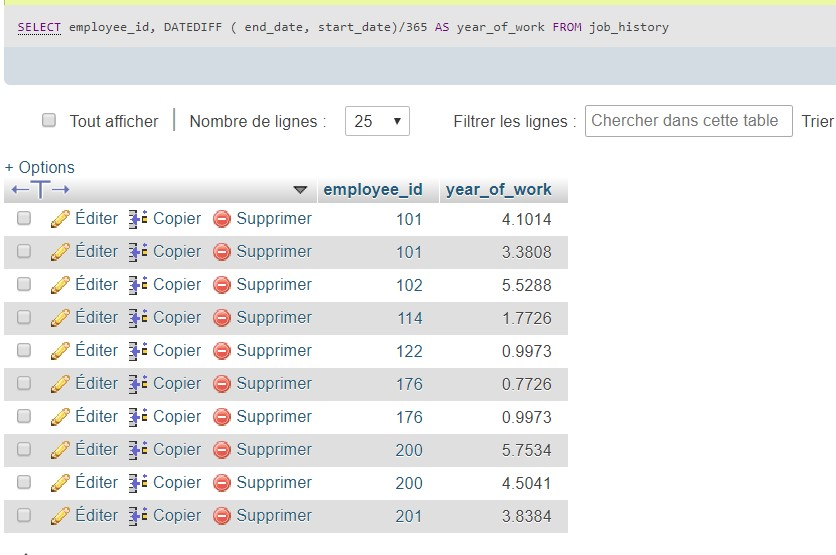
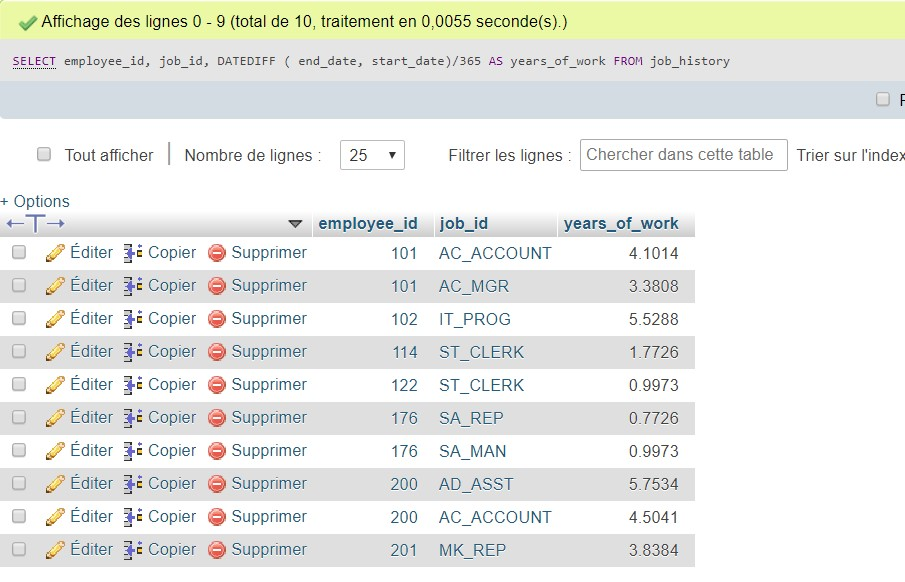
modification question 20

diff --git a/enonce 4/requetes.html b/enonce 4/requetes.html
@@ -90,7 +90,7 @@ SELECT AVG(salary) AS Moyen_salary, COUNT(employee_id) AS Number_employees FROM 
 //8
 SELECT COUNT(salary) FROM `employees`
 //9
-SELECT DISTINCT job_id FROM `employees`
+SELECT  COUNT(DISTINCT job_id ) AS Nb_Job FROM employees 
 //10
 SELECT UPPER (first_name) AS prenom FROM `employees`
 //11
@@ -100,9 +100,9 @@ SELECT MAX(salary), MIN(salary) FROM `employees`
 //13
 SELECT first_name, last_name, salary FROM `employees` WHERE salary NOT BETWEEN 10000 AND 15000
 //14
-SELECT first_name,last_name,department_id FROM `employees` WHERE department_id = 30 OR department_id = 100 ORDER BY department_id ASC
+SELECT first_name,last_name,department_id FROM `employees` WHERE department_id IN (30,100) ORDER BY department_id ASC
 //15//
-SELECT first_name, last_name, salary, department_id FROM `employees` WHERE (salary NOT BETWEEN 10000 AND 15000) AND (department_id = 30 OR department_id = 100)
+SELECT first_name, last_name, salary, department_id FROM `employees` WHERE (salary NOT BETWEEN 10000 AND 15000) AND (department_id IN(30,100))
 //16
 SELECT first_name,last_name, hire_date FROM `employees` WHERE hire_date LIKE '1987%'
 //17
@@ -112,8 +112,9 @@ SELECT departments.department_id, departments.department_name , locations.locati
 //19
 SELECT jobs.job_title, AVG(employees.salary) AS Moyen_salary FROM employees, jobs WHERE employees.job_id = jobs.job_id GROUP BY job_title
 //20
-SELECT employee_id, SUM( DATEDIFF ( end_date, start_date)/365) AS year_of_work FROM job_history GROUP BY employee_id
+SELECT employee_id, job_id, DATEDIFF ( end_date, start_date)/365 AS years_of_work FROM job_history 
+SELECT employee_id, (YEAR(CURRENT_DATE) - YEAR(hire_date)) AS years_of_work FROM employees
 
-SELECT employee_id, round (DATEDIFF ( end_date, start_date)/365 ) AS year_of_work FROM job_history
 //21
 UPDATE employees SET phone_number = REPLACE ( phone_number, '124','999')
+

diff --git a/README.md b/README.md
@@ -110,7 +110,7 @@ Rédigez une requête pour trouver le nom (prénom, nom) de tous les employés q
 
 Rédigez une requête pour trouver les adresses (ID_lieu, adresse_rue, ville, état_province, nom_pays) de tous les départements.
 
-# Conseil : utilisez JOINTURE NATURELLE
+conseil : utilisez JOINTURE NATURELLE
 
 Rédigez une requête pour afficher le titre du poste et le salaire moyen des employés.
 
